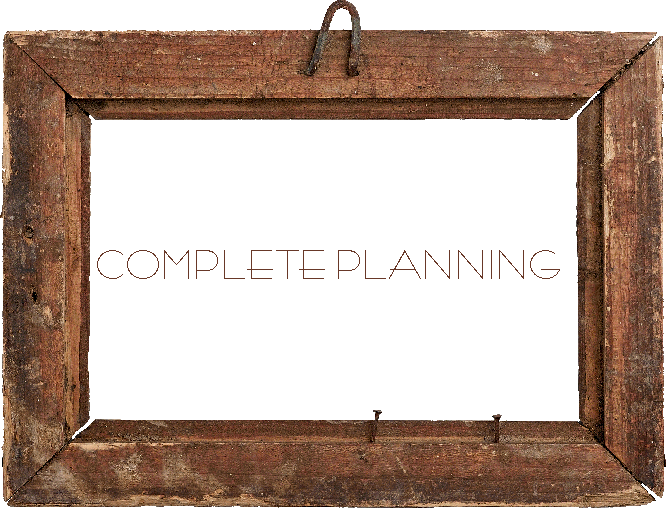
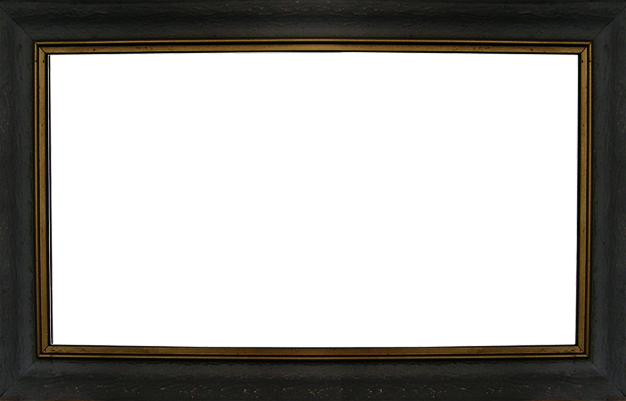
Add files via upload

diff --git a/index.html b/index.html
@@ -19,7 +19,7 @@
         <a href = 'https://samswaringen.github.io/portfolio%20webpage/' id = 'portfolioImg'><div class = 'linkDiv' id = 'leftDiv'></div><div id='behindLeft'></div><div id = 'board' style = 'background-image:url(board.png); background-size: contain; background-repeat: no-repeat; width: 320px; height: 137px;'>PROJECTS</div></a>
       </aside>
     <article>
-        <img src = 'woodframe.png' style = 'position:absolute; left: 25%;top: 18%;' width = '770' height = '520'><img src = 'nail.png' id = 'nail' width = 25; height = 25;><div id ='fire' style = 'position:absolute; left: 30.15%; top: 31.5%; width: 614px; height: 351px; background-color: black;' ></div><iframe id = 'iframe' width="615" height="353" src="https://www.youtube.com/embed/61G_u0L3Pbk" title="About Me video" frameborder="0" allow="accelerometer; autoplay; clipboard-write; encrypted-media; gyroscope; picture-in-picture" allowfullscreen></iframe>
+        <img src = 'woodframe.png' style = 'position:absolute; left: 26.7%;top: 23.25%;' width = '722' height = '477'><div id ='fire' style = 'position:absolute; left: 30.15%; top: 31.5%; width: 614px; height: 351px; background-color: black;' ></div><iframe id = 'iframe' width="615" height="353" src="https://www.youtube.com/embed/61G_u0L3Pbk" title="About Me video" frameborder="0" allow="accelerometer; autoplay; clipboard-write; encrypted-media; gyroscope; picture-in-picture" allowfullscreen></iframe>
     </article>
     <aside class = 'aside-right'>
       <a href = 'https://samswaringen.github.io/default%20page/aboutme.html' id = 'aboutMeLink'><div class = 'linkDiv' id = 'rightDiv'></div><div id = 'behindRight'></div><div class = 'aboutme' id = 'aboutme' style = 'background-image:url(board.png); background-size: contain; background-repeat: no-repeat; width: 320px; height: 137px;'>ABOUT ME</div></a>
